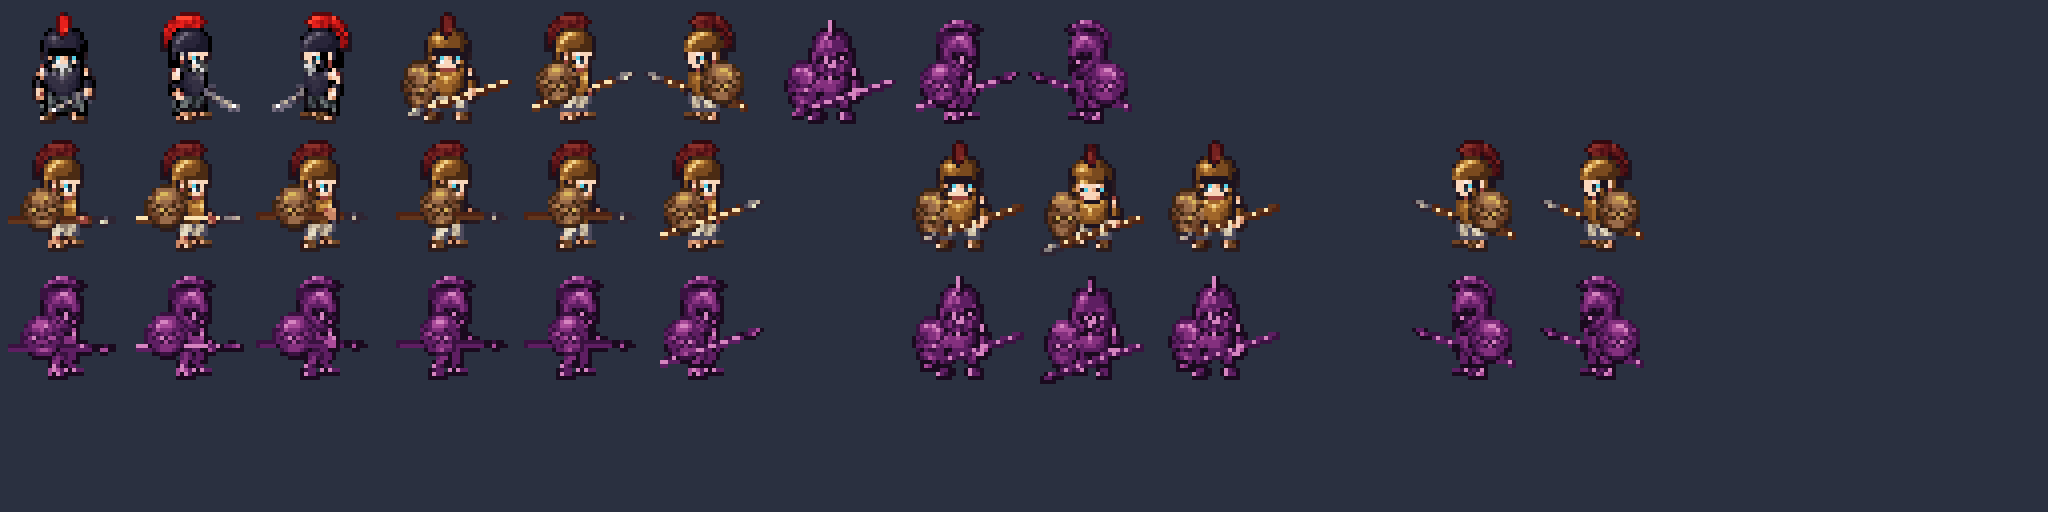
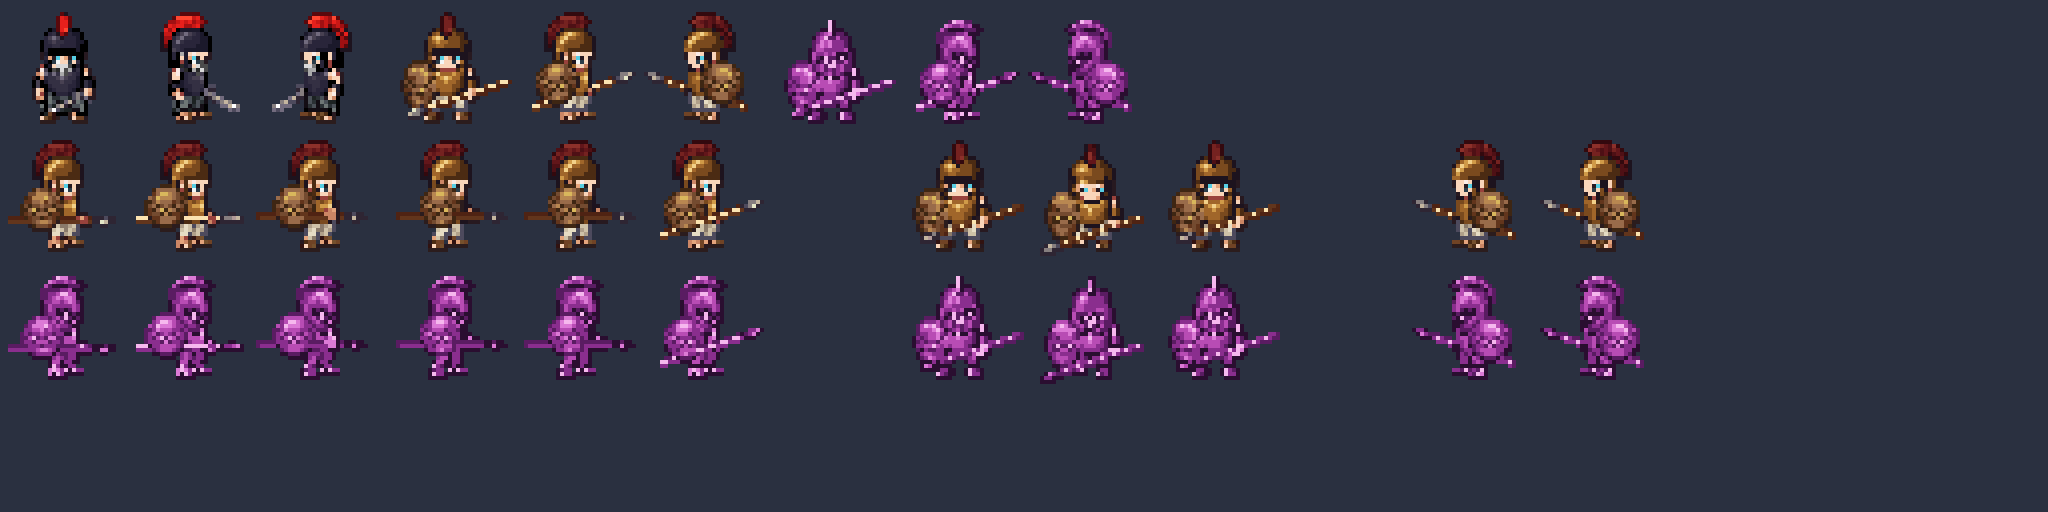
Lay out Troy battles like Final Fantasy, and brighten the Trojans.
Battle screen (desktop), after FF Brave Exvius / Resonance:
- Fighters stand in the open middle: Odysseus left of center, the
  Trojans right of center with slim HP bars and names under their feet.
- Turn order is a slanted dark band with gold chips at the top left.
- Odysseus' HP is a status panel at the bottom left.
- The command menu is a compact list on the right.
- Questions open as a shorter panel at the bottom right, answers two by two.
Nothing covers Odysseus any more. Same parchment, gold and Cinzel; phones
keep the stacked layout.

Trojans stay one tone of murex purple, but the whole ramp is brighter so
even their shadows sit well above the dark night paving.

Claude-Session: https://claude.ai/code/session_01D1k4Bi5z98432HQ6HwEwHd

diff --git a/src/game/soldierBattle.css b/src/game/soldierBattle.css
@@ -134,3 +134,171 @@
 @media (prefers-reduced-motion: reduce) {
   .troy .battle-screen::before { animation: none; }
 }
+
+/* ---------------------------------------------------------------------------
+   Battle layout in Troy, after Final Fantasy Brave Exvius / Resonance:
+   - the fighters stand in the open middle of the screen,
+   - the turn order sits top left,
+   - Odysseus' HP lives in a status panel at the bottom left,
+   - the command menu is a compact list at the right,
+   - questions open as a panel at the bottom right,
+   so nothing covers Odysseus. Same parchment, gold and Cinzel as before.
+   Desktop only; phones keep the stacked layout from TroyWorld.css.
+   --------------------------------------------------------------------------- */
+@media (min-width: 721px) {
+  .troy .battle-screen { display: block; }
+
+  /* Turn order: a slanted dark band with gold chips, top left. */
+  .troy .battle-screen .battle-order {
+    position: absolute;
+    top: 14px;
+    left: 0;
+    z-index: 3;
+    justify-content: flex-start;
+    gap: 0.4rem;
+    padding: 8px 46px 8px 22px;
+    background: linear-gradient(90deg, rgba(10, 8, 6, 0.85) 70%, rgba(10, 8, 6, 0));
+    clip-path: polygon(0 0, 100% 0, calc(100% - 22px) 100%, 0 100%);
+    border-bottom: 1px solid rgba(230, 194, 122, 0.55);
+  }
+  .troy .battle-screen .battle-order li { font-size: 0.7rem; padding: 0.28rem 0.7rem; }
+
+  /* Battle log: a slim plaque at the top center. */
+  .troy .battle-screen .battle-log-row {
+    position: absolute;
+    top: 12px;
+    left: 50%;
+    z-index: 3;
+    transform: translateX(-50%);
+  }
+
+  /* The stage covers the screen. Each fighter is placed on it directly. */
+  .troy .battle-screen .battle-stage {
+    position: absolute;
+    inset: 0;
+    display: block;
+    padding: 0;
+  }
+  .troy .battle-screen .battle-stage::before {
+    left: 8%;
+    right: 8%;
+    bottom: 31%;
+  }
+  .troy .battle-screen .battle-side { position: static; width: auto; max-width: none; }
+
+  /* Odysseus: left of center, standing on the street. */
+  .troy .battle-screen .battle-side:not(.is-foe) .battle-fighter {
+    position: absolute;
+    left: 20%;
+    bottom: 30%;
+    margin: 0;
+  }
+
+  /* His status panel, bottom left. */
+  .troy .battle-screen .battle-side:not(.is-foe)::before {
+    content: '';
+    position: absolute;
+    left: 2vw;
+    bottom: 3vh;
+    width: 300px;
+    height: 84px;
+    background: linear-gradient(180deg, rgba(20, 12, 6, 0.9), rgba(10, 6, 4, 0.92));
+    border: 2px solid #b8862b;
+    border-radius: 6px;
+    box-shadow: 0 4px 14px rgba(0, 0, 0, 0.6), inset 0 0 0 1px rgba(246, 234, 210, 0.15);
+  }
+  .troy .battle-screen .battle-side:not(.is-foe) > .battle-name {
+    position: absolute;
+    left: calc(2vw + 16px);
+    bottom: calc(3vh + 50px);
+    font-size: 1.05rem;
+  }
+  .troy .battle-screen .battle-side:not(.is-foe) > .battle-hp-num {
+    position: absolute;
+    left: calc(2vw + 16px);
+    bottom: calc(3vh + 22px);
+    width: 268px;
+    margin: 0;
+    text-align: right;
+    font-family: var(--font-display);
+    font-size: 1.1rem;
+    color: #f6ead2;
+  }
+  .troy .battle-screen .battle-side:not(.is-foe) > .battle-hp-num::before {
+    content: 'HP';
+    float: left;
+    color: #d7f3c2;
+    font-size: 0.85rem;
+    letter-spacing: 0.12em;
+    line-height: 1.6;
+  }
+  .troy .battle-screen .battle-side:not(.is-foe) > .battle-hp-track {
+    position: absolute;
+    left: calc(2vw + 16px);
+    bottom: calc(3vh + 14px);
+    width: 268px;
+    height: 6px;
+  }
+
+  /* Trojans: right of center, each with a slim bar and name under his feet. */
+  .troy .battle-screen .battle-foes {
+    position: absolute;
+    right: 6%;
+    bottom: 30%;
+    gap: 0.6rem;
+  }
+  .troy .battle-screen .battle-member {
+    display: flex;
+    flex-direction: column;
+    align-items: center;
+    width: 118px;
+  }
+  .troy .battle-screen .battle-member .battle-sprite { order: 0; margin-top: 0; }
+  .troy .battle-screen .battle-member .battle-hp-track { order: 1; width: 78%; height: 5px; margin: 6px auto 0; }
+  .troy .battle-screen .battle-member .battle-name { order: 2; margin-top: 3px; font-size: 0.66rem; }
+  .troy .battle-screen .battle-member .battle-hp-num { order: 3; margin: 0; font-size: 0.72rem; }
+
+  /* The dock no longer spans the screen. It holds one panel at a time. */
+  .troy .battle-screen .battle-dock {
+    position: absolute;
+    right: 2vw;
+    bottom: 3vh;
+    z-index: 4;
+    width: min(560px, 50vw);
+    padding: 0;
+    background: none;
+    align-items: stretch;
+  }
+
+  /* Command menu: a compact list on the right, like FF's command window. */
+  .troy .battle-screen .battle-dock:has(.battle-commands) {
+    top: 18vh;
+    bottom: auto;
+    width: 300px;
+  }
+  .troy .battle-screen .battle-commands.q-card {
+    width: 100%;
+    padding: 0.55rem 0.6rem 0.65rem;
+    gap: 0.3rem;
+    border-radius: 10px;
+  }
+  .troy .battle-screen .battle-dock .q-command {
+    min-height: 0;
+    padding: 0.3rem 0.7rem 0.3rem 0.35rem;
+    gap: 0.55rem;
+  }
+  .troy .battle-screen .q-command-key { width: 26px; height: 26px; font-size: 0.85rem; }
+  .troy .battle-screen .q-command-label { font-size: 0.88rem; }
+  .troy .battle-screen .battle-dock .q-command small { font-size: 0.8rem; }
+
+  /* Question panel: bottom right, shorter, answers two by two. */
+  .troy .battle-screen .battle-question.q-card {
+    padding: 0.7rem 1rem 0.8rem;
+    border-radius: 12px;
+  }
+  .troy .battle-screen .battle-question .q-title { font-size: 1.2rem; }
+  .troy .battle-screen .battle-question .q-rule { margin: 0.25rem auto 0.4rem; }
+  .troy .battle-screen .battle-question p.q-prompt { font-size: 1.08rem; margin-bottom: 0.55rem; }
+  .troy .battle-screen .battle-question .q-choice { min-height: 40px; font-size: 1rem; padding: 0.3rem 0.8rem 0.3rem 0.4rem; }
+  .troy .battle-screen .battle-continue { align-self: flex-end; }
+}

diff --git a/art/scripts/build_soldiers_lpc.py b/art/scripts/build_soldiers_lpc.py
@@ -122,8 +122,9 @@ TEAMS = {"greek": greek_layers, "trojan": trojan_layers}
 
 # Trojans in one tone of murex purple, the dye made in Troy's lower town.
 # Purple stands out from the gray-blue night paving, the bronze Greeks, and
-# Odysseus' near-black iron with its red crest.
-MUREX = ["#1a0a1e", "#3a1240", "#5e1e62", "#84307e", "#aa4c9a", "#d684c0"]
+# Odysseus' near-black iron with its red crest. The ramp is kept bright so
+# even the shadows sit well above the dark paving at night.
+MUREX = ["#2a0e30", "#5a1c62", "#8a2e8e", "#b84cb4", "#dc7ad6", "#f6b8ee"]
 
 # Teams drawn in a single color. The ramp runs darkest to lightest.
 MONOCHROME = {"trojan": MUREX}
